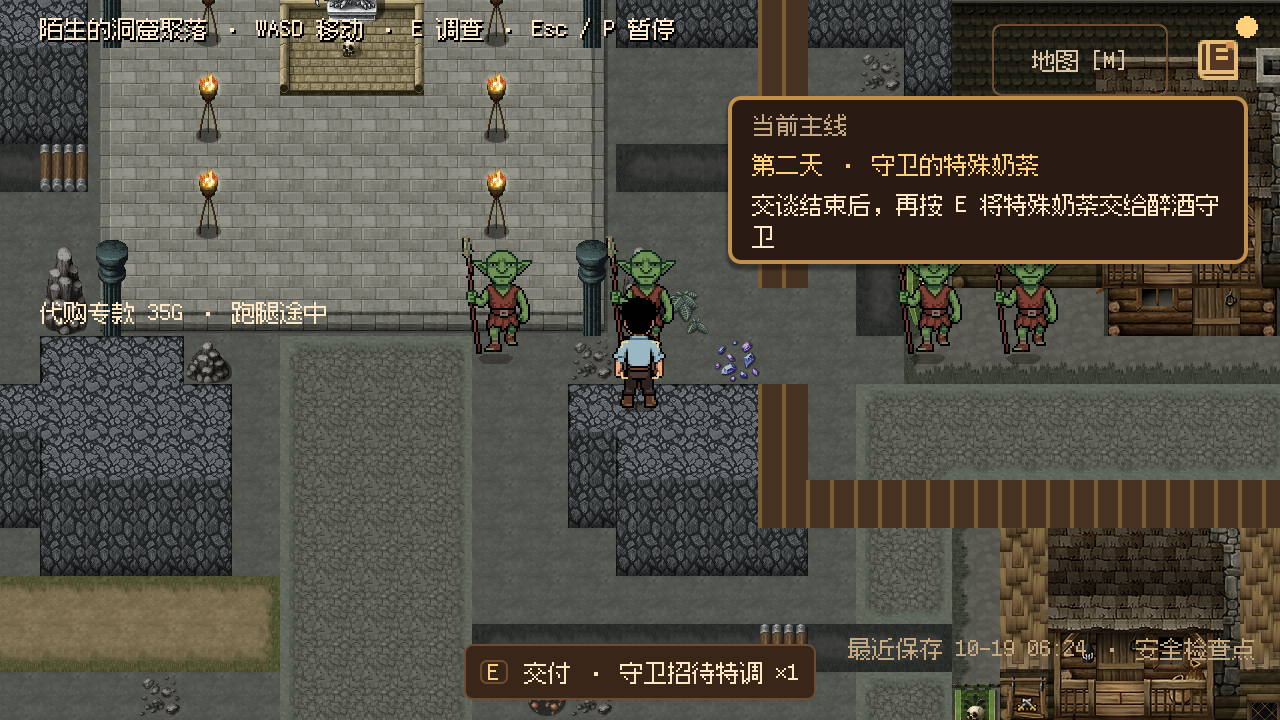
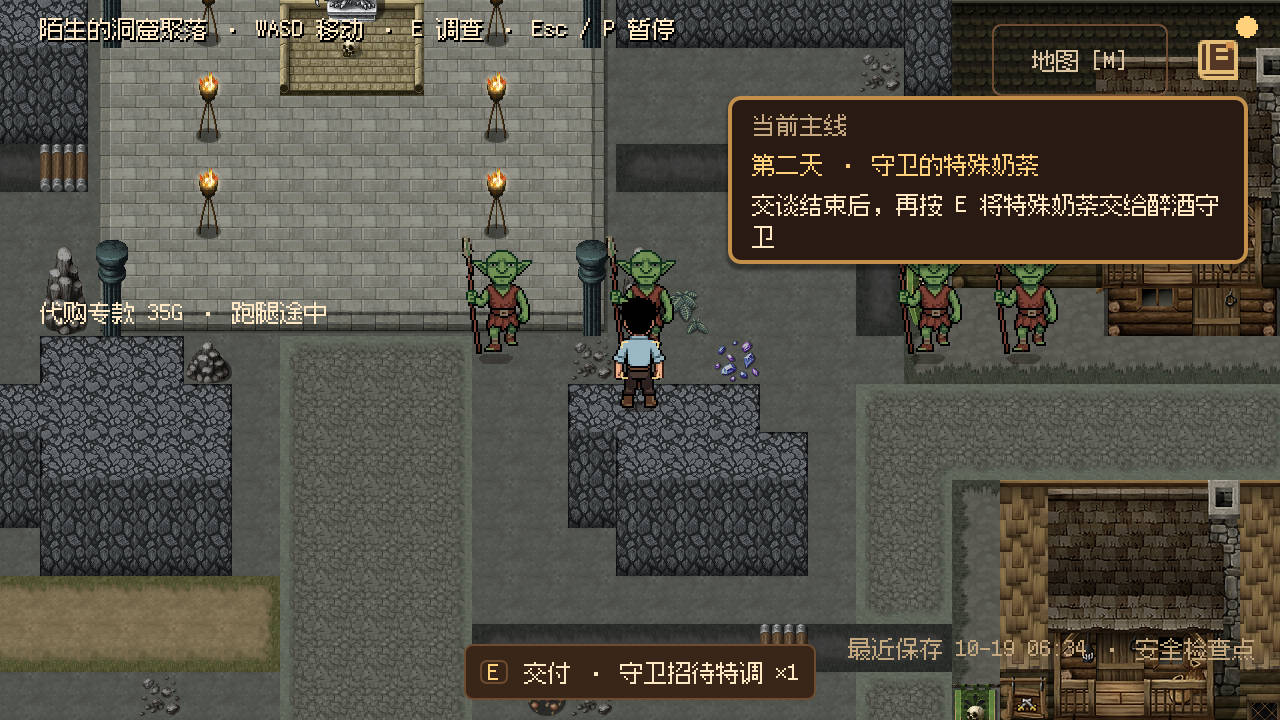
fix: remove elder-area road barriers and route restriction

diff --git a/docs/design/two_day_flow_integration_plan.md b/docs/design/two_day_flow_integration_plan.md
@@ -6,7 +6,7 @@
 
 - 经济线负责原料、定价、按次库存、制作／交易事务及快照迁移。串联线负责地图、角色、章节工程、任务配置、接线和正式通关验收；不重复开发另一份经济服务。
 - 新洞窟为两天统一外景，沿用奶茶店，连接新酒馆、赌场、长老室内。南侧集市旁为奶茶店，西南为赌场，中央居民区右下为酒馆，东侧为军营，东北为长老居所，西侧为仓库和河岸工坊，北侧为祭坛。
-- 主路和黄色支路可走；灰线暂封闭。祭坛右侧至长老居所是唯一潜入通道，进入和撤离共用。商业路线不穿过潜入区，第二天送饮品不重复潜入教学。
+- 道路通行按已保存的地图地形配置，不以附加路障限定潜入区出入口。商业路线不穿过潜入区，第二天送饮品不重复潜入教学。
 - 保留已保存的 RPG Maker TileMapLayer；继承场景添加门、锚点、触发区和交互配置，不离线重铺地图。暂不制作放火、专用异常动画、自由赌博、长期雇佣和队伍。
 
 ## 第一天
@@ -14,7 +14,7 @@
 - 普通销售全部改为 H01 经典珍珠奶茶，每杯 3G；不再以整枚 10G 金币冒充单杯收入，原稿金额与重复句同步修正。现有五单和 S03 三观察点的真实完成边界保留。
 - S04 采用补充整体对白：胖哥布林进店，玩家手动接单、制作和交付；实际打开并关闭地图后续播，地图标主要地点和长老居所大致位置，不揭示内部秘密。接受／拒绝选项最终汇合。
 - S04 胖哥布林赠送萤火伞 F04、纯正哥布林老火烧 F05 各 2 次用量；接受取血委托时提供一次性 50G 潜入经费，随后自动入夜。
-- S05 顺序：入口投币 → 醉酒守卫 → 宅邸双卫 → 搜索 → 原路撤离。每次投币 10G、不可捡回；入口守卫分心后归位。醉酒守卫收 10G 并交代次日订单后离场，不重复触发；双卫合收 10G，本次往返持续放行。
+- S05 顺序：入口投币 → 醉酒守卫 → 宅邸双卫 → 搜索 → 撤离。每次投币 10G、不可捡回；入口守卫分心后归位。醉酒守卫收 10G 并交代次日订单后离场，不重复触发；双卫合收 10G，本次往返持续放行。
 - 被普通守卫发现即失败；耗尽金币也可重试。重试恢复潜入开始前的完整库存、余额、付款、调查和事件进度，跨宅邸室内切换保留同一次尝试。不得因场景重建补钱或重复发物。
 - 文书和血液顺序自由；文书首次阅读关闭后自动收入库存，两件都取得且文书已读才可完成潜入。血液取得 3 次用量，不是三整份。安全撤离后玩家实际走回奶茶店。
 - S06 返店自动接取任务特调；C01 植脂末奶茶底＋血液各消耗 1 次，剩余血液 2 次。制作后胖哥布林到店，玩家交付，这一杯总收入 40G，不另叠加 3G 或任务奖励。剩余血液不允许普通销售／自由配方。
@@ -41,4 +41,4 @@
 
 ### 2026-10-19 地图宿主接线
 
-继承地图已配置四名独立守卫、三处调查、三处夜间采集、文书和三次血液拾取；原 TileMapLayer 保持不变。三段实体路障封闭通往长老区的其他道路，祭坛右侧支路保留。地图宿主通过公开能力装配角色、潜入与交互；室内地图使用建筑外部入口位置。跨室内重试恢复同一份整局快照，返店事实要求实际撤离。地图结构验证：`verify_rpg_chapter_maps.gd`，105 项通过；完整两天流程验收另行记录。
+继承地图已配置四名独立守卫、三处调查、三处夜间采集、文书和三次血液拾取；原 TileMapLayer 保持不变。根据用户最新要求，三段实体路障及其碰撞已删除，原单一出入口与额外封路约定取消，见[场景连接约定](scene_connections.md)。地图宿主通过公开能力装配角色、潜入与交互；室内地图使用建筑外部入口位置。跨室内重试恢复同一份整局快照，返店事实要求实际撤离。接线时的地图结构验证为 `verify_rpg_chapter_maps.gd`，105 项通过；该历史结果不代表取消路障后的本轮验证。

diff --git a/docs/design/scene_connections.md b/docs/design/scene_connections.md
@@ -2,19 +2,21 @@
 
 ## 2026-10-19 新地图接法
 
-当前接法以用户提供的洞窟拓扑图及[两天对接约定](two_day_flow_integration_plan.md)为准：新洞窟为统一外景，奶茶店在南侧集市旁，赌场在西南，酒馆在中央居民区右下，长老居所在东北。祭坛右侧是第一晚唯一潜入通道；军营侧及其余灰路封闭。去商业地点不穿过潜入关卡，第二天可重访醉酒守卫原位置。
+当前接法以用户提供的洞窟拓扑图及[两天对接约定](two_day_flow_integration_plan.md)为准：新洞窟为统一外景，奶茶店在南侧集市旁，赌场在西南，酒馆在中央居民区右下，长老居所在东北。去商业地点不穿过潜入关卡，第二天可重访醉酒守卫原位置。
+
+根据用户于 2026-10-19 的最新要求，取消潜入区域单一出入口、右下缺口必须封闭及军营侧／灰路封闭的约定。长老区三段附加路障及其碰撞已移除，通行恢复为已保存地图的原生地形规则。
 
 正式地图绑定在 `src/levels/rpg_maker/chapter_*.tscn`，外景宿主沿用 `src/core/settlement.tscn`，三个室内为 `tavern.tscn`、`casino.tscn`、`elder_house.tscn`。地图通行和目标预检已接入；后续业务／剧情的实际发布状态见对应模块记录，不因门可通过就标记两天已通关。
 
 ## 2026-10-17 原始分图约定
 
-本连接方式由用户于 2026-10-17 确认，后续场景制作必须沿用。
+以下保留 2026-10-17 的分图参考；出入口数量与封路限制已按上述最新要求取消。
 
 ```text
 奶茶店室内
   ↕ 店门
 奶茶店外公共街道
-  ├─ 深处方向 ↔ 第五阶段夜间潜入区域（左下唯一对外入口）
+  ├─ 深处方向 ↔ 第五阶段夜间潜入区域
   │                ├─ 醉酒守卫原位置（第二天送奶茶时重访）
   │                └─ 长老宅邸正门 ↔ 宅邸内部
   └─ 外围方向 ↔ 第二天商业街
@@ -23,8 +25,6 @@
 ```
 
 - 公共街道承担路线分流。去酒馆、赌场不需要穿过长老居所区域。
-- 第五阶段只有一个对外接口：左下接公共街道，进入与撤离共用。
-- 第五阶段概念图右下类似出口的缺口必须封闭，不设第二条逃生路线。
 - 长老宅邸正门是内部接口；室内外同图时只需经过门口，无须切场景。
 - 第二天商业街岔路位于第五阶段图外，在公共街道上预留。
 - 第二天送奶茶回到醉酒守卫的同一地点；由后续剧情/玩法宿主切换访问状态，不要求重做投币、贿赂和放火教学。

diff --git a/src/levels/AGENTS.md b/src/levels/AGENTS.md
@@ -10,7 +10,7 @@
 | RPG Maker MZ 移植地图 | [rpg_maker/AGENTS.md](rpg_maker/AGENTS.md) |
 
 - 地图负责显示、边界、出生点与通行规则，通过公开方法向宿主提供查询；不承担玩家输入、剧情顺序或通用 UI。
-- 第一天与第二天的地图接口遵循 [场景连接约定](../../docs/design/scene_connections.md)：公共街道分别连接长老居所与商业街；夜间潜入区域只有左下一个对外接口，右下封闭。
+- 第一天与第二天的地图接口遵循 [场景连接约定](../../docs/design/scene_connections.md)：公共街道分别连接长老居所与商业街；通行按已保存的地图地形配置。
 - 布局、出生点和可调参数放对应场景数据或 Resource，明确单位、地图原点及变换；格子 / 世界坐标转换集中处理，不在调用方重复写死格子尺寸。
 - 地图显示与可行走规则分别表达。修改贴图、遮挡、家具或建筑时核对碰撞和通行，不能无意改变玩法；物理层遵守 [玩法规范](../gameplay/AGENTS.md)。
 - 供成员编辑的静态地图必须把格子保存在场景的 TileMapLayer。运行时由保存的地板格建立通行规则，不清空手工布局，不用旧 JSON 覆盖。

diff --git a/docs/development/two_day_integration_2026_10_19.md b/docs/development/two_day_integration_2026_10_19.md
@@ -24,6 +24,8 @@
 
 四个 `map_*.tscn` 相对共同祖先无改动；门、锚点、路障、守卫、采集和调查保存在继承场景中。商业路线与潜入支路分开，灰色道路封闭，祭坛右侧保留唯一潜入通道。奶茶店继续使用既有 `milk_tea_shop.tscn`。正式交互隐藏开发标签，使用项目内置中文字库，地图不显示原料内部 ID。
 
+后续更新：用户已取消上述单一潜入通道和封路约定，长老区三段附加路障及碰撞现已删除；现行规则见[场景连接约定](../design/scene_connections.md)。上段保留为整合当时的历史记录。本次删除后重新通过地图结构 105 项、首夜潜入 100 项、第二天图形流程 163 项检查，已查看长老区截图确认条纹消失；仅改变附加阻挡，原始地图图块与地形碰撞保持。未进行真人全程步行或 Release 导出。第二天新截图见[完整流程](../gameplay/day_02_flow.md)。
+
 ## 业务与经济结果
 
 - Day 1 五单及 S04 第六单均为 H01／3G；三处实际调查、回店、手动接制交、实际开关地图与选项汇合均接通。F04／F05 各赠两次，潜入经费 50G 有独立防重回执。

diff --git a/docs/gameplay/day_02_flow.md b/docs/gameplay/day_02_flow.md
@@ -47,7 +47,7 @@
 
 部分任务／UI／恢复测试退出时仍报告 ObjectDB 与资源未释放；两天流程及部分恢复为 2 对象／1 资源，代购交接／过期为 4／2，订单 UI 为 12／5，编辑器导入为 495／10。与既有基线一致，未在本次定位；断言通过与退出诊断分开记录。旧版 `wait_special` 存档曾因新增四项主线终态不满足“字典完全相等”而触发一次严格比较失败；逐字段检查确认只有这些补记，未放宽原精确恢复测试，新版 20 个检查点全部按原断言通过。
 
-下图分别为五杯营业后的关店指引、滚动到确认按钮的特调配方，以及守卫交谈后可交付状态：
+下图分别为五杯营业后的关店指引、滚动到确认按钮的特调配方，以及守卫交谈后可交付状态。守卫图已随长老区三段路障删除更新，现行通行约定见[场景连接约定](../design/scene_connections.md)。
 
 ![第二天关店目标](captures/day_02/close_objective.png)
 
